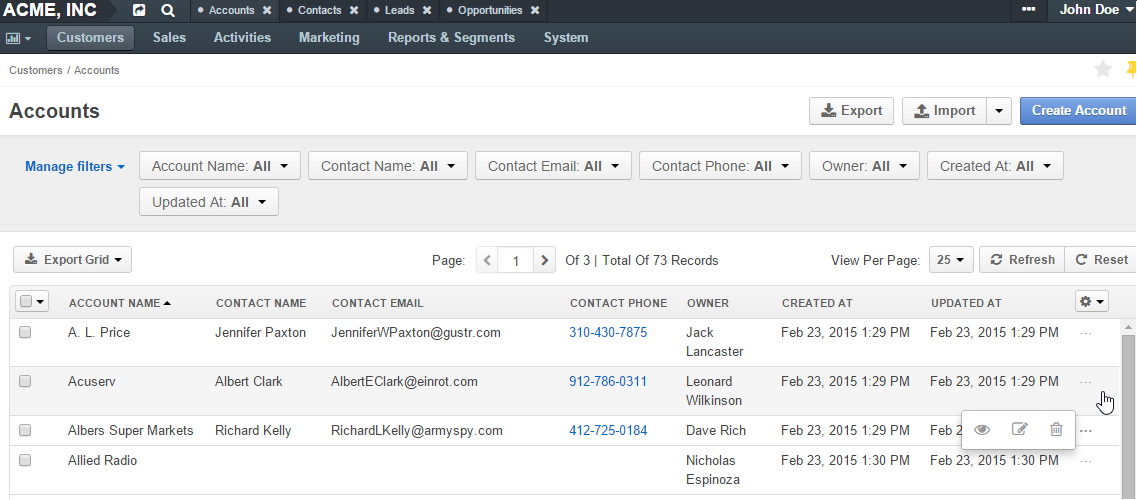
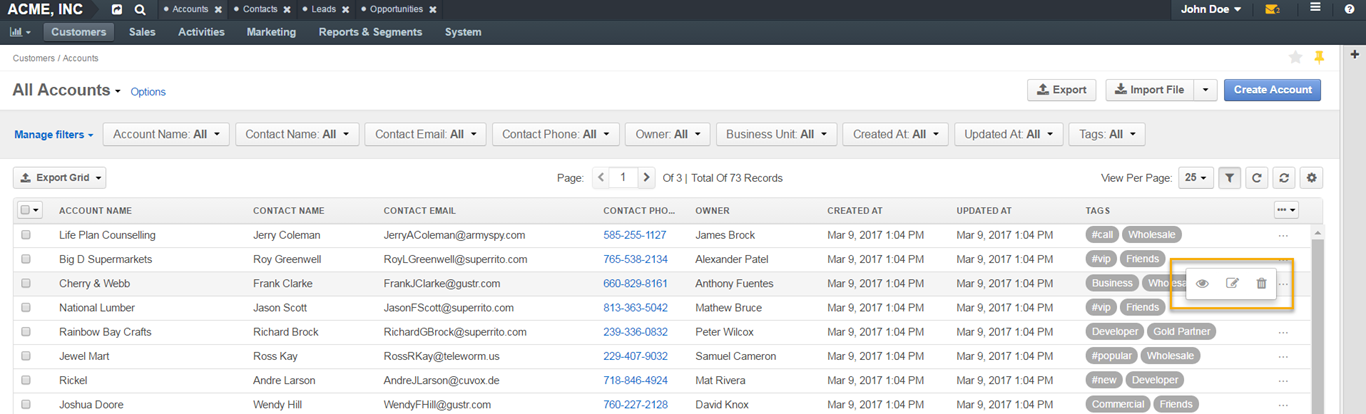
OD-298: Updated Accounts Guide
-Described changes in UI
-Added new screenshots
-Added links to other guides
-Added an Inline Editing button

diff --git a/user_guide/customer_management/common_features_accounts.rst b/user_guide/customer_management/common_features_accounts.rst
@@ -19,7 +19,7 @@ a 360-degree view of the customer.
 Create Account Records
 ----------------------
 
-- Navigate to *Customers>Accounts*.
+- Navigate to **Customers>Accounts**.
 
 - Click :guilabel:`Create Account`.
 
@@ -103,7 +103,7 @@ The :ref:`view page <user-guide-ui-components-view-pages>` consists of several s
 
 - **Additional Information**: details of any :term:`custom fields <Custom Field>` defined for the account.
 - **Website Activity**: customer activities displayed in Summary and Events tabs.
-- 
+
   |
 
   .. image:: ../img/accounts/accounts_view_website_activity_1.png
@@ -118,98 +118,158 @@ The :ref:`view page <user-guide-ui-components-view-pages>` consists of several s
 
 - **Sections with channel names**: each section contains details of all the customers that are assigned to this 
   account and belong to a specified channel, as described in the 
-  :ref:`multichannel functionality description <user-guide-multi-channel-overview>`. 
-  
-  Records of other entities assigned to this channel with regard to a specific customer are represented as subsections.
-  
-  In the example below you can see a section of a channel named **Sales Channel**:
-  
-  - There are three B2B Customers: Jewel Mart, A. L. Price, and PriceRite Warehouse Club.
+  :ref:`multichannel functionality description <user-guide-multi-channel-overview>`.
 
-  - Once one of the customers is chosen, you can see its general details and information on related Leads/Opportunities:
- 
-.. image:: ../img/accounts/accounts_view_channels.png
+    .. note:: The number and names of such sections depend on the number and names of OroCRM channels and customer records assigned to the account. The type of channels can vary   depending on your configurations and integrations (e.g. Sales, Magento, Commerce).
 
-.. note::
+    |
 
-    Number and names of such sections depends only on the number and names of OroCRM channels and customer records 
-    assigned to the account.
+    .. image:: ../img/accounts/accounts_view_channels.png
+
+    |
+
+
+   Records of other entities assigned to channels with regard to a specific customer are represented as subsections.
+
+   For instance, within the **Sales Channel** tab you will be able to see:
+
+    - The Business Customer(s) related to the selected account.
+    - Once one of the customers is selected, you can see their general details and information on related Leads/Opportunities.
+
+    .. note:: In new installations of OroCRM (2.0 and higher) the functions of a Sales channel are reduced to enabling Business Customers and controlling their grouping at the Account view. It is, therefore, no longer essential to create a Sales channel to enable leads and opportunities - these are enabled as features.
+
+
+    |
+
+    .. image:: ../img/accounts/accounts_view_channels_2.png
+
+    |
+
+   Within a **Magento Channel**:
+
+    - There are three tabs with Magento customer-related information: General Info, Magento Orders, Magento Shopping Carts.
+
+    |
+
+    .. image:: ../img/accounts/magento_channel.png
+
+    |
+
+   Within a **Commerce Channel**:
+
+    - The are seven tabs with :ref:`Commerce <user-guide-commerce-integration>` customer-related information: General, Customers Users, Shopping Lists, Requests For Quote, Quotes, Orders and Opportunities.
+
+    |
+
+    .. image:: ../img/accounts/commerce_channel_2.png
+
+    |
 
 
 .. _user-guide-accounts-actions:
 
 Account Actions from the View Page
-""""""""""""""""""""""""""""""""""
+~~~~~~~~~~~~~~~~~~~~~~~~~~~~~~~~~~
 
-      |
 
 The following actions can be performed for the accounts from the :ref:`View page <user-guide-ui-components-view-pages>`:
-  
-- Get to the *"Edit"* form of the account
 
-- Delete the account from the system 
+- Share the account. Clicking :guilabel:`Share` will prompt a sharing settings pop up window to open.
 
-- Export and import accounts with :guilabel:`Export` and :guilabel:`Import` buttons as described in 
-  the :ref:`Export and Import Functionality <user-guide-import>` guide. 
+|
 
-- The rest of the actions available depend on the system settings defined in the
-  **Communication & Collaboration** settings section of the 
-  **Accounts** entity (see step 4 of the :ref:`Create an Entity <doc-entity-actions-create>` action description).
+  .. image:: ../img/accounts/accounts_view_actions_share.png
+
+|
+
+
+- Get to the **Edit** form of the account.
+
+- Delete the account from the system.
+
+- Perform a number of actions under **More Actions** menu:
+
+ - :ref:`Add Attachment <user-guide-activities-attachments>`
+ - :ref:`Add Note <user-guide-add-note>`
+ - :ref:`Send Email <user-guide-using-emails>`
+ - :ref:`Add Event <user-guide-activities-events>`
+ - :ref:`Log Call <user-guide-activities-calls>`
+ - :ref:`Add Task <user-guide-activities-tasks>`
+ - :ref:`Add Contact <user-guide-contacts>`
+ - :ref:`Create Opportunity <user-guide-system-channel-entities-opportunities>`.
+
+|
 
 .. image:: ../img/accounts/accounts_view_actions.png
 
+|
+
+
+.. note:: Actions available in the system depend on the system settings defined in the **Communication & Collaboration** settings section of the  **Accounts** entity (see step 4 of the :ref:`Create an Entity <doc-entity-actions-create>` action description).
 
 Account Actions from the Grid 
 ^^^^^^^^^^^^^^^^^^^^^^^^^^^^^
 
 From the :ref:`grid <user-guide-ui-components-grids>` you can:
 
-      |
+|
 
 .. image:: ../img/accounts/accounts_grid.png
 
 |
 
-- Delete the account from the system : |IcDelete|
+- View the account by clicking |IcView|.
+- Delete the account from the system by clicking |IcDelete|.
   
-- Edit the account : |IcEdit|
-  
-- View the account : |IcView| 
+- Edit the account by clicking |IcEdit|.
 
-- Merge Accounts
+- Do inline editing for specific columns, such as account name, owner or tags, by clicking |IcEditInline|.
+
+|
+
+.. image:: ../img/accounts/accounts_grid_inline_editing.gif
+
+|
+
+
+- View the account by clicking |IcView|.
+
+- Merge Accounts.
 
 
 .. _user-guide-accounts-merge:
 
 Merging Accounts
-""""""""""""""""
+~~~~~~~~~~~~~~~~
 
 Once the accounts have been added to the system you can :ref:`merge <user-guide-accounts-merge>` them, to get a full
-view of customer activities, regardless of the :term:`channels <Channel>`. This can be useful if, for example, it has 
-appeared that several accounts have been created for the different representatives of the same client, or that your 
-business-to-business partner is co-operating with you from a new channel (e.g. started buying from your Magento store).
+view of customer activities, regardless of the :term:`channels <Channel>`. This can be useful if, for example, several accounts have been created for different representatives of the same client, or if your business-to-business partner is co-operating with you from a new channel (e.g. started buying from your Magento store).
 
 In order to merge accounts:
 
-- Go to the accounts grid
+- Go to the accounts grid.
 
-- Check the accounts that you want to merge
+- Check the accounts that you want to merge.
 
-- Choose :ref:`bulk action <user-guide-ui-components-grid-edit>` *Merge Accounts*.
+- Choose :ref:`bulk action <user-guide-ui-components-grid-edit>` **Merge Accounts**.
 
-*For the sake of example, we are merging three accounts "Acuserv", "Big Bear Stores" and "Casa Bonita"*
+As an example, we are merging three accounts "Acuserv", "Big Bear Stores" and "Casa Bonita".
+
+|
 
 .. image:: ../img/accounts/accounts_merge_01.png
 
 |
 
-Once you've clicked the :guilabel:`Merge Accounts` button, a table with the merge-settings will appear.
+Once you have clicked :guilabel:`Merge Accounts`, a table with merge-settings will appear.
 
-      |
+|
 
 .. image:: ../img/accounts/accounts_merge_02.png
 
-- Choose the name of one of the accounts being merged, that will be given to your new account ("Master Record").
+|
+
+- Choose the name of one of the accounts that is being merged to give to your new account ("Master Record").
 
 - Choose if the contacts shall be replaced with the contacts of one account (and which), or if all the contacts shall be
   appended.
@@ -223,9 +283,9 @@ Once you've clicked the :guilabel:`Merge Accounts` button, a table with the merg
 - Choose if the tags shall be replaced with the contacts of one account (and which), or if all the tags shall be 
   appended.
 
-- Click the :guilabel:`Merge` button.
+- Click :guilabel:`Merge`.
   
-A Master Record with merged data of several accounts will be created. The rest of the account details, including details 
+A Master Record with the merged data of several accounts will be created. The rest of the account details, including details
 of the customer identities will be appended.
 
 
@@ -248,15 +308,19 @@ Accounts Life Time Value
 This is a simple but useful report, with which you can see the total amount of money received from all the customers 
 assigned to the account. 
 
-In order to see the report go to *Reports and Segments → Reports → Accounts → Life Time*.
+In order to see the report go to **Reports and Segments>Reports>Accounts>Life Time**.
 
 It shows:
 
-- the account name 
+- the account name
 
-- total lifetime sales value registered in OroCRM
+- the total lifetime sales value registered in OroCRM
+
+|
 
 .. image:: ../img/accounts/accounts_report_by_lifetime.png
+
+|
 
 
 Accounts by Opportunities
@@ -265,7 +329,7 @@ Accounts by Opportunities
 With this report you can see number of won, lost and pending opportunities for all the customers assigned to the 
 account. 
 
-In order to see the report go to *Reports and Segments → Reports → Accounts → By Opportunities*.
+In order to see the report go to **Reports and Segments>Reports>Accounts>By Opportunities**.
 
 It shows:
 
@@ -281,9 +345,11 @@ It shows:
 
 - total number of opportunities of a kind, regardless of their account.
 
-  |
+|
   
-.. image:: ../img/accounts/accounts_report_by_opportunity.png 
+.. image:: ../img/accounts/accounts_report_by_opportunity.png
+
+|
 
 .. hint::
 
@@ -316,3 +382,4 @@ It shows:
 .. |IcView| image:: ../../img/buttons/IcView.png
    :align: middle
 
+.. |IcEditInline| image:: ../../img/buttons/IcEditInline.png

diff --git a/user_guide/intro_users_and_benefits.rst b/user_guide/intro_users_and_benefits.rst
@@ -6,6 +6,29 @@ OroCRM Users and Their Benefits
 This chapter of the guide explains the most common OroCRM user roles in order to help you understand which sections of 
 this user guide best match your work duties.
 
+.. _documentation-intro:
+
+
+OroCRM Community vs Enterprise
+------------------------------
+
+OroCRM comes in two editions, Community Edition (CE) and Enterprise Edition (EE).
+
+The key differences between the two is that OroCRM Enterprise Edition offers enhanced application performance scalability, extended functional capabilities and customer support.
+
+On top of the features available in OroCRM CE, OroCRM EE provides:
+
+- Big data processing with PostgreSQL database.
+- Big data search with ElasticSearch.
+- Integration with RabbitMQ to handle large amounts of job queues.
+- Multiple organizations support.
+- Multiple websites support.
+- Multiple currencies support.
+- Support for inventory management across multiple warehouses.
+- OroCommerce, LDAP, Microsoft Outlook, Microsoft Exchange integrations.
+
+
+Complete information on differences between OroCRM Community and Enterprise editions is illustrated in the `Edition Comparison chart <https://www.orocrm.com/orocrm-enterprise-and-community>`_.
 
 Something for Everyone
 ----------------------
